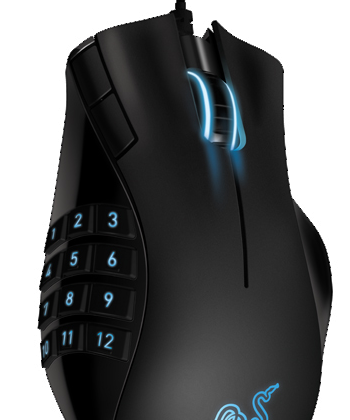
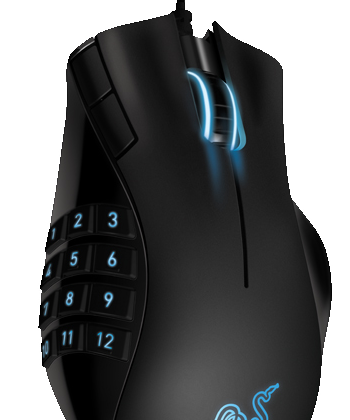
Mouse photo: background removed with tools/remove_bg.py
Claude-Session: https://claude.ai/code/session_01HRDTXQtc2GVQfBsdRjgwmT

diff --git a/web/style.css b/web/style.css
@@ -306,7 +306,7 @@ input.bad { border-color: var(--err) !important; }
 .tedit .row + .row { margin-top: 0; }
 .tedit p { margin: 0; }
 .mousepic { position: relative; width: 100%; max-width: 350px; margin: 10px auto 4px; }
-.mousepic img { display: block; width: 100%; height: auto; filter: drop-shadow(0 0 1px #6a717a); pointer-events: none; user-select: none;
+.mousepic img { display: block; width: 100%; height: auto; pointer-events: none; user-select: none;
   -webkit-mask-image: linear-gradient(#000 78%, transparent 99%); mask-image: linear-gradient(#000 78%, transparent 99%); }
 .mousepic svg { position: absolute; inset: 0; width: 100%; height: 100%; }
 .mousepic .hk { cursor: pointer; }

diff --git a/tools/remove_bg.py b/tools/remove_bg.py
@@ -1,0 +1,44 @@
+# Removes the white background of the mouse photo: remove_bg.py <in.png> <out.png>
+# web/mouse.png = out.png cropped to (110, 60, 460, 480).
+import sys
+import cv2
+import numpy as np
+
+# 1. Загрузка исходного изображения (RGB)
+img = cv2.imread(sys.argv[1])
+h, w = img.shape[:2]
+
+# 2. Выделение внешнего белого фона через связные компоненты
+is_white = np.all(img >= 252, axis=-1).astype(np.uint8)
+num_labels, labels, stats, _ = cv2.connectedComponentsWithStats(is_white)
+
+# Фон — крупнейшая компонента, соприкасающаяся с краями
+bg_label = 1
+bg_mask = (labels == bg_label).astype(np.uint8)
+
+# 3. Расчёт альфа-маски и карты расстояний до границы
+fg_binary = (1 - bg_mask).astype(np.uint8)
+dist_bg = cv2.distanceTransform(bg_mask, cv2.DIST_L2, 5)
+dist_fg = cv2.distanceTransform(fg_binary, cv2.DIST_L2, 5)
+
+# Формируем плавный альфа-канал на стыке (антиалиасинг шириной ~1.5 px)
+alpha = np.clip((dist_bg - 0.5) / 1.5, 0.0, 1.0)
+alpha[dist_fg > 1.5] = 1.0
+alpha[dist_bg > 2.0] = 0.0
+
+# 4. De-matting: убираем белый ореол с пограничных пикселей
+# C_fg = (C_obs - (1 - alpha) * 255) / alpha
+img_float = img.astype(np.float32)
+alpha_3d = np.repeat(alpha[:, :, np.newaxis], 3, axis=2)
+
+# Корректируем цвет там, где есть частичная прозрачность
+mask_edge = (alpha > 0.01) & (alpha < 0.99)
+img_corrected = img_float.copy()
+img_corrected[mask_edge] = np.clip(
+    (img_float[mask_edge] - (1.0 - alpha_3d[mask_edge]) * 255.0) / np.maximum(alpha_3d[mask_edge], 1e-3),
+    0, 255
+)
+
+# 5. Сборка финального RGBA PNG
+rgba = np.dstack([img_corrected.astype(np.uint8), (alpha * 255).astype(np.uint8)])
+cv2.imwrite(sys.argv[2], rgba)
